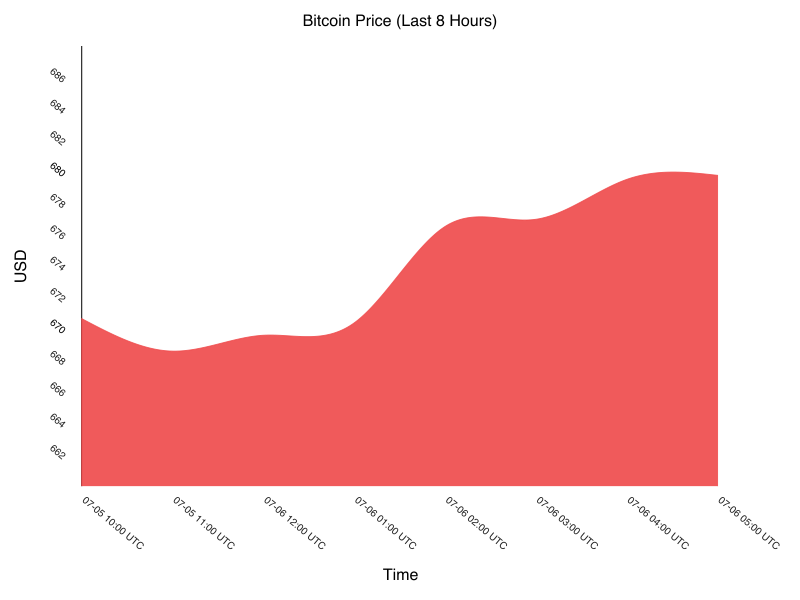
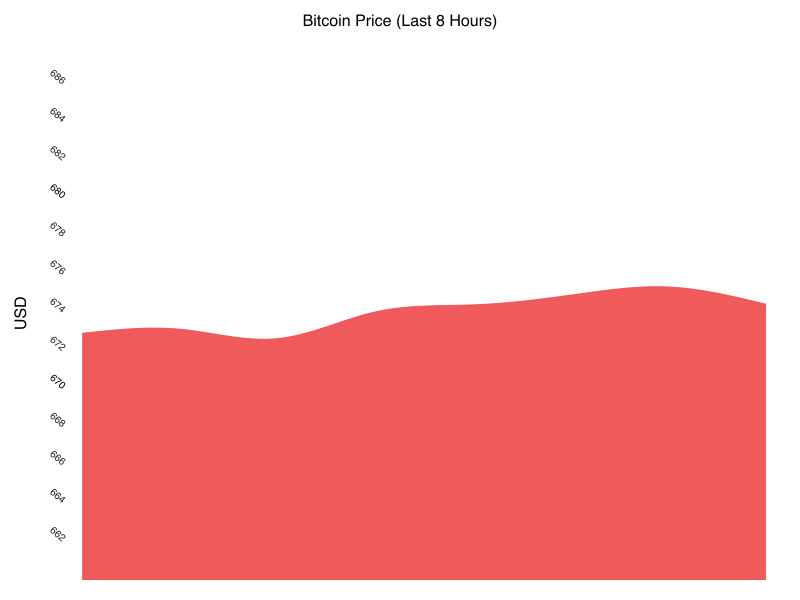
Removes the labels.
because doug cried about it.

diff --git a/bot.py b/bot.py
@@ -77,7 +77,6 @@ if __name__ == "__main__":
 
         config.style = custom_style
         config.title = "Bitcoin Price (Last 8 Hours)"
-        config.x_title = "Time"
         config.y_title = "USD"
         config.y_label_rotation = 40
         config.x_label_rotation = 40
@@ -88,6 +87,7 @@ if __name__ == "__main__":
         config.fill = True
         config.show_legend=False
         config.show_y_guides= False
+        config.show_x_labels=False
         config.interpolate='cubic'
 
         #line_chart = pygal.Line(show_dots=False, style=custom_style, range=(average_price - (average_price/50), average_price + (average_price/50)),title="Bitcoin Price (Last 8 Hours)", x_title="Time", y_title="USD", margin=20, y_label_rotation=40, x_label_rotation=40, fill=True, show_legend=False, show_y_guides= False, interpolate='cubic')
